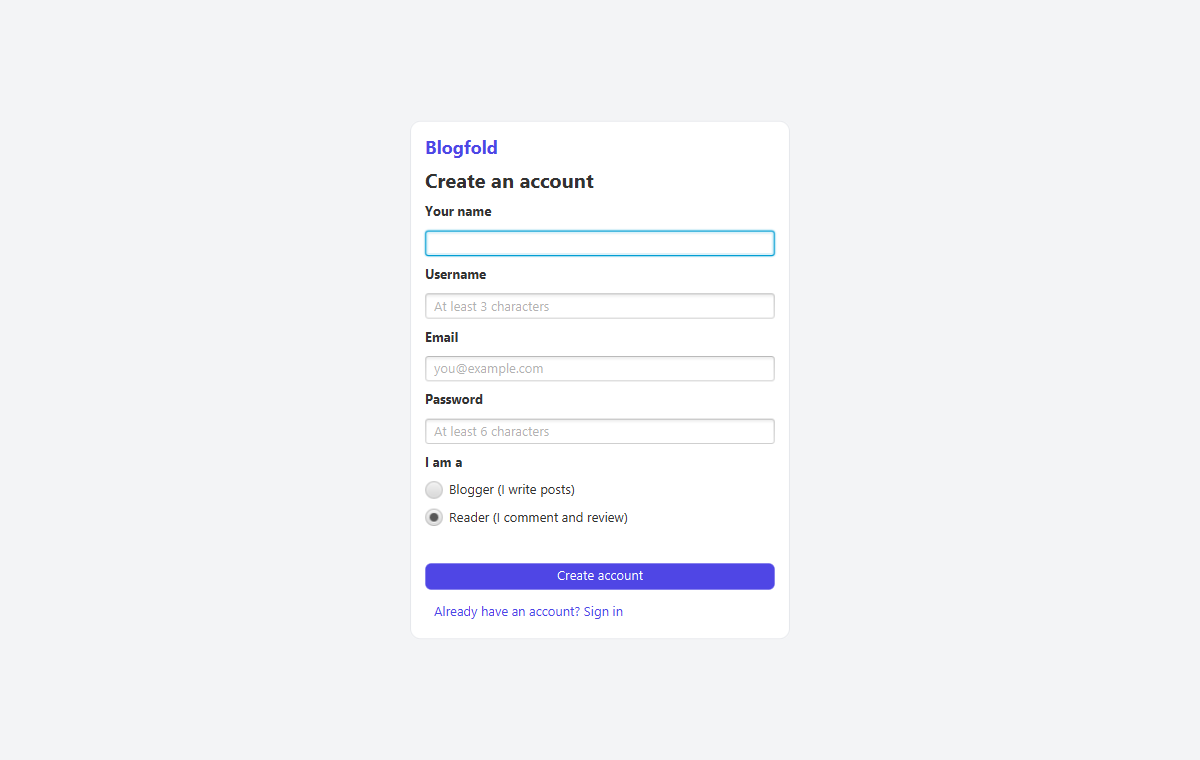
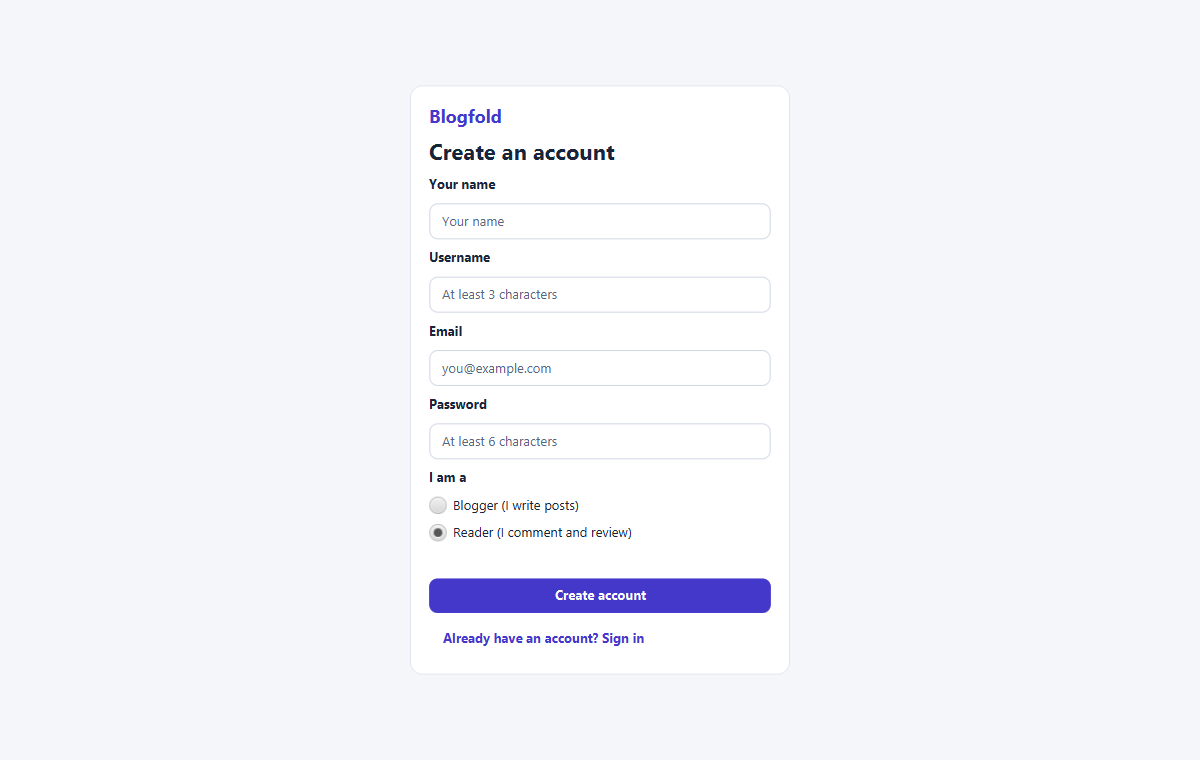
Refresh Blogfold screenshots with the new design

Changed region(s): [[0.3392, 0.1513, 0.6475, 0.8474], [0.6167, 0.5447, 0.6475, 0.575], [0.6167, 0.4539, 0.6475, 0.4842]]

diff --git a/README.md b/README.md
@@ -56,6 +56,8 @@ The app checks title uniqueness when saving against an existing database. If old
 
 ## Screenshots
 
+The screenshots use sample accounts and articles from a dedicated demo workspace.
+
 | | | |
 |---|---|---|
 | [Sign in](docs/screenshots/01-login.png) | [Sign up](docs/screenshots/02-sign-up.png) | [Dashboard](docs/screenshots/03-dashboard.png) |
